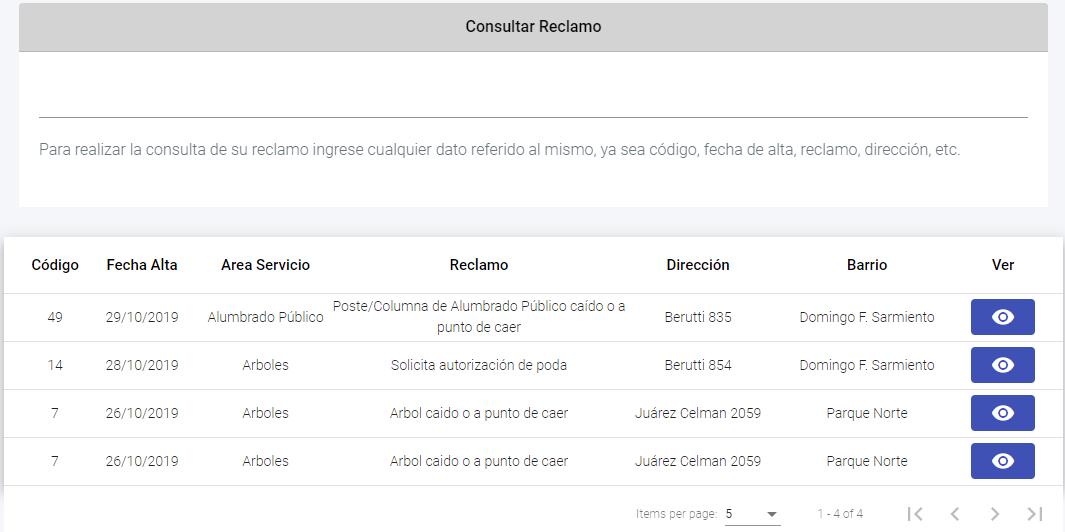
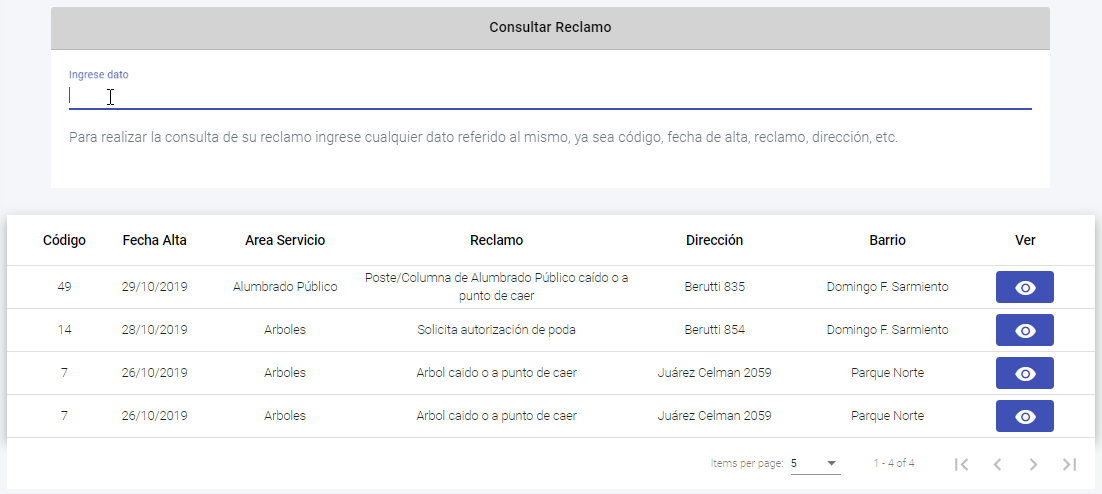
Versión 1.2.6

diff --git a/src/app/pages/pages.routes.ts b/src/app/pages/pages.routes.ts
@@ -23,6 +23,9 @@ import { UsuarioComponent } from '../pages/admin-municipal/usuario/usuario.compo
 import { EstadoOrdenServicioComponent } from '../pages/admin-municipal/estado/estado-orden-servicio/estado-orden-servicio.component';
 import { EstadoReclamoComponent } from '../pages/admin-municipal/estado/estado-reclamo/estado-reclamo.component';
 import { PersonalComponent } from '../pages/admin-operativo/personal/personal.component';
+import { AyudaRegistrarReclamoComponent } from '../pages/ayuda/ayuda-registrar-reclamo/ayuda-registrar-reclamo.component';
+import { AyudaConsultarReclamoComponent } from '../pages/ayuda/ayuda-consultar-reclamo/ayuda-consultar-reclamo.component';
+import { AyudaCalificarReclamoComponent } from '../pages/ayuda/ayuda-calificar-reclamo/ayuda-calificar-reclamo.component';
 
 // LOGIN GUARD
 import { LoginGuard } from '../_guards/login.guard';
@@ -42,7 +45,6 @@ const pagesRoutes: Routes = [
             { path: 'gestionar-ordenServicio', component: GestionarOrdenServicioComponent, data: { titulo: 'Orden de Servicio', subtitulo: 'Gestionar Orden de Servicio' }, canActivate: [LoginGuard]},
             { path: 'perfil', component: PerfilComponent, data: { titulo: 'Perfil' }, canActivate: [LoginGuard]},
             { path: 'reporte', component: ReporteComponent, data: { titulo: 'Reportes' }, canActivate: [LoginGuard]},
-            { path: 'ayuda', component: AyudaComponent, data: { titulo: 'Ayuda' }, canActivate: [LoginGuard]},
             { path: 'area-servicio', component: AreaServicioComponent, data: { titulo: 'Dominio', subtitulo: 'Area de Servicio'}, canActivate: [LoginGuard]},
             { path: 'barrio', component: BarrioComponent, data: { titulo: 'Dominio', subtitulo: 'Barrio'}, canActivate: [LoginGuard]},
             { path: 'calle', component: CalleComponent, data: { titulo: 'Dominio', subtitulo: 'Calle'}, canActivate: [LoginGuard]},
@@ -54,6 +56,9 @@ const pagesRoutes: Routes = [
             { path: 'estado-ordenServicio', component: EstadoOrdenServicioComponent, data: { titulo: 'Dominio', subtitulo: 'Estado: Orden Servicio' }, canActivate: [LoginGuard]},
             { path: 'estado-reclamo', component: EstadoReclamoComponent, data: { titulo: 'Dominio', subtitulo: 'Estado: Reclamo' }, canActivate: [LoginGuard]},
             { path: 'personal', component: PersonalComponent, data: { titulo: 'Dominio', subtitulo: 'Personal' }, canActivate: [LoginGuard]},
+            { path: 'ayuda-registrar-reclamo', component: AyudaRegistrarReclamoComponent, data: { titulo: 'Ayuda', subtitulo: 'Registrar Reclamo' }, canActivate: [LoginGuard]},
+            { path: 'ayuda-consultar-reclamo', component: AyudaConsultarReclamoComponent, data: { titulo: 'Ayuda', subtitulo: 'Consultar Reclamo' }, canActivate: [LoginGuard]},
+            { path: 'ayuda-calificar-reclamo', component: AyudaCalificarReclamoComponent, data: { titulo: 'Ayuda', subtitulo: 'Calificar Reclamo' }, canActivate: [LoginGuard]},
             { path: '**', redirectTo: '/login'}
         ]
     },

diff --git a/src/app/pages/ayuda/ayuda-registrar-reclamo/ayuda-registrar-reclamo.component.html b/src/app/pages/ayuda/ayuda-registrar-reclamo/ayuda-registrar-reclamo.component.html
@@ -1,0 +1,47 @@
+<h3>¿Cómo Registrar un Reclamo?</h3>
+<div class="text-justify">
+    1) Dirígase a la sección <b>Reclamo > Registrar</b> e ingrese los datos solicitados en el orden en que aparecen (area de servicio, reclamo, ubicación, etc).
+    <br><br> Note que tiene 2 formas de ingresar la ubicación del reclamo: mediante el mapa de Google o manualmente.
+    <ul>
+        <li>Mediante el mapa de Google:</li>
+        1. Busque en el mapa la ubicación exacta del lugar donde desea realizar el Reclamo.
+        <br> 2. Haga click en el marcador (<i class="ti-location-pin"></i>) y arrástrelo a la ubicación que realizó anteriormente.
+        <br> 3. Seleccione el Barrio correspondiente y Calle. El sistema automáticamente mostrará la Altura.
+    </ul>
+    <br>
+    <div align="center">
+        <img src="../../../assets/images/myImages/datosReclamosMap.PNG">
+    </div>
+    <br>
+    <ul>
+        <li>Manualmente:</li>
+        1. Debe seleccionar barrio y calle correspondiente e ingresar la altura en la que se encuentra el Reclamo a realizar.
+    </ul>
+    <br>
+    <div align="center">
+        <img src="../../../assets/images/myImages/datosReclamo.PNG">
+    </div>
+    <br> 2) Una vez ingresados los datos obligatorios (*), presionando el botón "Siguiente", el sistema valida que el Reclamo que intenta registrar no halla sido ingresado con anterioridad. En caso de que ya se encuentre registrado, le aparecerá el siguiente
+    mensaje:
+    <br><br>
+    <div align="center">
+        <img src="../../../assets/images/myImages/validarReclamo.png">
+    </div>
+    <br> Caso contrario, si el Reclamo no ha sido ingresado con anterioridad, se le mostrará un resumen con los datos del mismo:
+    <br><br>
+    <div align="center">
+        <img src="../../../assets/images/myImages/resumenReclamo.PNG">
+    </div>
+    <br> 3) Antes de enviar el Reclamo, corrobore que los datos ingresados sean correctos, ya que una vez registrado el mismo, sus datos no pueden modificarse. Tilde el casillero "Confirmo haber revisado los datos del reclamo" y presione "Enviar".
+    <br><br>
+    <div align="center">
+        <img src="../../../assets/images/myImages/reclamoRegistrado.PNG">
+    </div>
+    <br> El sistema automáticamente le envía un correo electrónico con el código del Reclamo para su posterior consulta. Le recomendamos no borre este email para poder seguirlo paso a paso.
+    <br><br>
+    <b>*IMPORTANTE: Sólo puede enviarse un Reclamo por día, si intenta registrar más de uno, el sistema le mostrará el siguiente mensaje:</b>
+    <br><br>
+    <div align="center">
+        <img src="../../../assets/images/myImages/reclamoDiario.png">
+    </div>
+</div>

diff --git a/src/app/pages/pages.module.ts b/src/app/pages/pages.module.ts
@@ -26,7 +26,6 @@ import { ReporteComponent } from './reporte/reporte.component';
 import { GestionarOrdenServicioComponent } from './gestionar-orden-servicio/gestionar-orden-servicio.component';
 import { PerfilComponent } from './perfil/perfil.component';
 import { ModalEstadoreclamoComponent } from './modal-estadoreclamo/modal-estadoreclamo.component';
-import { AyudaComponent } from './ayuda/ayuda.component';
 import { GraficoComponent } from '../components/grafico/grafico.component';
 import { AreaServicioComponent } from '../pages/admin-municipal/area-servicio/area-servicio.component';
 import { BarrioComponent } from '../pages/admin-municipal/barrio/barrio.component';
@@ -41,6 +40,9 @@ import { RolComponent } from '../pages/admin-municipal/rol/rol.component';
 import { EstadoOrdenServicioComponent } from '../pages/admin-municipal/estado/estado-orden-servicio/estado-orden-servicio.component';
 import { EstadoReclamoComponent } from '../pages/admin-municipal/estado/estado-reclamo/estado-reclamo.component';
 import { PersonalComponent } from '../pages/admin-operativo/personal/personal.component';
+import { AyudaRegistrarReclamoComponent } from '../pages/ayuda/ayuda-registrar-reclamo/ayuda-registrar-reclamo.component';
+import { AyudaConsultarReclamoComponent } from '../pages/ayuda/ayuda-consultar-reclamo/ayuda-consultar-reclamo.component';
+import { AyudaCalificarReclamoComponent } from '../pages/ayuda/ayuda-calificar-reclamo/ayuda-calificar-reclamo.component';
 
 /* Dentro de la sección "exports" vamos a insertar todos los componentes que sean accesados fuera
     de este módulo en caso de ser necesario, sino se dejan solamente en "declarations"   */
@@ -59,7 +61,6 @@ import { PersonalComponent } from '../pages/admin-operativo/personal/personal.co
         ReporteComponent,
         GestionarOrdenServicioComponent,
         ModalEstadoreclamoComponent,
-        AyudaComponent,
         GraficoComponent,
         RatingReclamoComponent,
         AreaServicioComponent,
@@ -73,7 +74,10 @@ import { PersonalComponent } from '../pages/admin-operativo/personal/personal.co
         RolComponent,
         EstadoOrdenServicioComponent,
         EstadoReclamoComponent,
-        PersonalComponent
+        PersonalComponent,
+        AyudaRegistrarReclamoComponent,
+        AyudaConsultarReclamoComponent,
+        AyudaCalificarReclamoComponent
     ],
     exports: [
         HomeComponent,

diff --git a/src/app/pages/admin-municipal/calle/calle.component.html b/src/app/pages/admin-municipal/calle/calle.component.html
@@ -33,17 +33,11 @@
                         <div class="form-group">
                             <label>NOMBRE*</label>
                             <input matInput id="txtCalle" formControlName="nombre" [(ngModel)]="inputCalle" type="text" class="form-control inputAbm" placeholder="Ingrese nombre de Calle">
-                            <button *ngIf="inputCalle !== ''" mat-button (click)="resetForm('calle')" matSuffix mat-icon-button aria-label="Clear" matTooltip="Borrar texto">
-                                <i class="material-icons">clear</i>
-                            </button>
                             <br><br>
                             <label>BARRIO</label><br>
                             <mat-select formControlName="barrio" class="form-control inputAbm" [(ngModel)]="selectBar" placeholder="Seleccione Barrio" multiple>
                                 <mat-option *ngFor="let item of arrBarrio" [value]="item.bar_IDBarrio">{{ item.bar_nombre }}</mat-option>
                             </mat-select>
-                            <button *ngIf="selectBar !== ''" mat-button (click)="resetForm('barrio')" matSuffix mat-icon-button aria-label="Clear" matTooltip="Borrar texto">
-                                <i class="material-icons">clear</i>
-                            </button>
                         </div>
                         <div class="form-group">
                             <div class="form-row">

diff --git a/src/app/pages/ayuda/ayuda-calificar-reclamo/ayuda-calificar-reclamo.component.html b/src/app/pages/ayuda/ayuda-calificar-reclamo/ayuda-calificar-reclamo.component.html
@@ -1,0 +1,24 @@
+<h3>¿Cómo Calificar un Reclamo?</h3>
+<div class="text-justify">
+    Esta operación podrá llevarla a cabo únicamente en caso de que el Reclamo haya sido resuelto. Para calificar su Reclamo, dirígase a la sección <b>Reclamo > Consultar</b>, seleccione el Reclamo correspondiente en la columna "Ver":
+    <br><br>
+    <div align="center">
+        <img src="../../../assets/images/myImages/verReclamo2.png">
+    </div>
+    <br><br> Se listarán todas las actividades y estados por los cuales pasó su reclamo. Si el último Estado es "Cumplido", se habilitará el botón para poder calificarlo:
+    <br><br>
+    <div align="center">
+        <img src="../../../assets/images/myImages/calificarReclamo1.png">
+    </div>
+    <br> Ingrese una calificación, y opcionalmente un comentario:
+    <br><br>
+    <div align="center">
+        <img src="../../../assets/images/myImages/calificarReclamo.PNG">
+    </div>
+    <br> Luego de ingresar los datos solicitados, presione "Enviar". El sistema registrará su calificación y le mostrará el siguiente mensaje en pantalla:
+    <br><br>
+    <div align="center">
+        <img src="../../../assets/images/myImages/mensajeCalificarReclamo.png">
+    </div>
+    <br><br> Esto nos permitirá controlar la eficiencia y eficacia del trabajo realizado por las Áreas de Servicios e ir mejorando poco a poco para cumplir con el compromiso que tenemos con usted.
+</div>

diff --git a/src/app/shared/sidebar/sidebar.component.html b/src/app/shared/sidebar/sidebar.component.html
@@ -29,8 +29,19 @@
                 </li>
 
                 <li *ngIf="user.usu_IDRol === 1">
-                    <a [routerLink]="'/ayuda'" routerLinkActive="active">
-                        <i class="material-icons">help</i>Ayuda</a>
+                    <a class="has-arrow waves-effect waves-dark" aria-expanded="false">
+                        <i class="material-icons">help</i><span class="hide-menu">Ayuda</span></a>
+                    <ul aria-expanded="false" class="collapse">
+                        <li>
+                            <a [routerLink]="'/ayuda-registrar-reclamo'" routerLinkActive="active">¿Cómo registrar un Reclamo?</a>
+                        </li>
+                        <li>
+                            <a [routerLink]="'/ayuda-consultar-reclamo'" routerLinkActive="active">¿Cómo consultar un Reclamo?</a>
+                        </li>
+                        <li>
+                            <a [routerLink]="'/ayuda-calificar-reclamo'" routerLinkActive="active">¿Cómo calificar un Reclamo?</a>
+                        </li>
+                    </ul>
                 </li>
 
                 <li *ngIf="user.usu_IDRol === 2 || user.usu_IDRol === 5">

diff --git a/src/app/pages/ayuda/ayuda-consultar-reclamo/ayuda-consultar-reclamo.component.html b/src/app/pages/ayuda/ayuda-consultar-reclamo/ayuda-consultar-reclamo.component.html
@@ -1,0 +1,14 @@
+<h3>¿Cómo Consultar un reclamo?</h3>
+<div class="text-justify">
+    Para <b>consultar</b> un Reclamo, dirígase a la sección <b>Reclamo > Consultar</b>, e ingrese cualquier dato relacionado al mismo, ya sea código, area de servicio, reclamo, dirección, etc:
+    <br><br>
+    <div align="center">
+        <img src="../../../assets/images/myImages/consultarReclamo.PNG">
+    </div>
+    <br> Presionando el botón en la columna "Ver" de algún Reclamo específico, podrá visualizar las actividades llevadas a cabo en el proceso de resolución, empezando desde la Generación de la Orden de Servicio hasta el cumplimiento del Reclamo en caso
+    que haya podido resolverse:
+    <br><br>
+    <div align="center">
+        <img src="../../../assets/images/myImages/verReclamo1.png">
+    </div>
+</div>

diff --git a/src/app/pages/consultar-reclamo/consultar-reclamo.component.html b/src/app/pages/consultar-reclamo/consultar-reclamo.component.html
@@ -5,7 +5,7 @@
             <form [formGroup]="frmConsultarReclamo">
                 <div *ngIf="user.usu_IDRol === 1" class="form-group">
                     <mat-form-field>
-                        <input matInput (keyup)="applyFilter($event.target.value)">
+                        <input matInput (keyup)="applyFilter($event.target.value)" placeholder="Ingrese dato">
                     </mat-form-field>
                     <p>Para realizar la consulta de su reclamo ingrese cualquier dato referido al mismo, ya sea código, fecha de alta, reclamo, dirección, etc.</p>
                 </div>

diff --git a/src/app/pages/ayuda/ayuda-calificar-reclamo/ayuda-calificar-reclamo.component.ts b/src/app/pages/ayuda/ayuda-calificar-reclamo/ayuda-calificar-reclamo.component.ts
@@ -1,0 +1,15 @@
+import { Component, OnInit } from '@angular/core';
+
+@Component({
+  selector: 'app-ayuda-calificar-reclamo',
+  templateUrl: './ayuda-calificar-reclamo.component.html',
+  styles: []
+})
+export class AyudaCalificarReclamoComponent implements OnInit {
+
+  constructor() { }
+
+  ngOnInit() {
+  }
+
+}

diff --git a/src/app/pages/ayuda/ayuda-consultar-reclamo/ayuda-consultar-reclamo.component.ts b/src/app/pages/ayuda/ayuda-consultar-reclamo/ayuda-consultar-reclamo.component.ts
@@ -1,0 +1,15 @@
+import { Component, OnInit } from '@angular/core';
+
+@Component({
+  selector: 'app-ayuda-consultar-reclamo',
+  templateUrl: './ayuda-consultar-reclamo.component.html',
+  styles: []
+})
+export class AyudaConsultarReclamoComponent implements OnInit {
+
+  constructor() { }
+
+  ngOnInit() {
+  }
+
+}

diff --git a/src/app/pages/ayuda/ayuda-registrar-reclamo/ayuda-registrar-reclamo.component.ts b/src/app/pages/ayuda/ayuda-registrar-reclamo/ayuda-registrar-reclamo.component.ts
@@ -1,0 +1,15 @@
+import { Component, OnInit } from '@angular/core';
+
+@Component({
+  selector: 'app-ayuda-registrar-reclamo',
+  templateUrl: './ayuda-registrar-reclamo.component.html',
+  styles: []
+})
+export class AyudaRegistrarReclamoComponent implements OnInit {
+
+  constructor() { }
+
+  ngOnInit() {
+  }
+
+}
